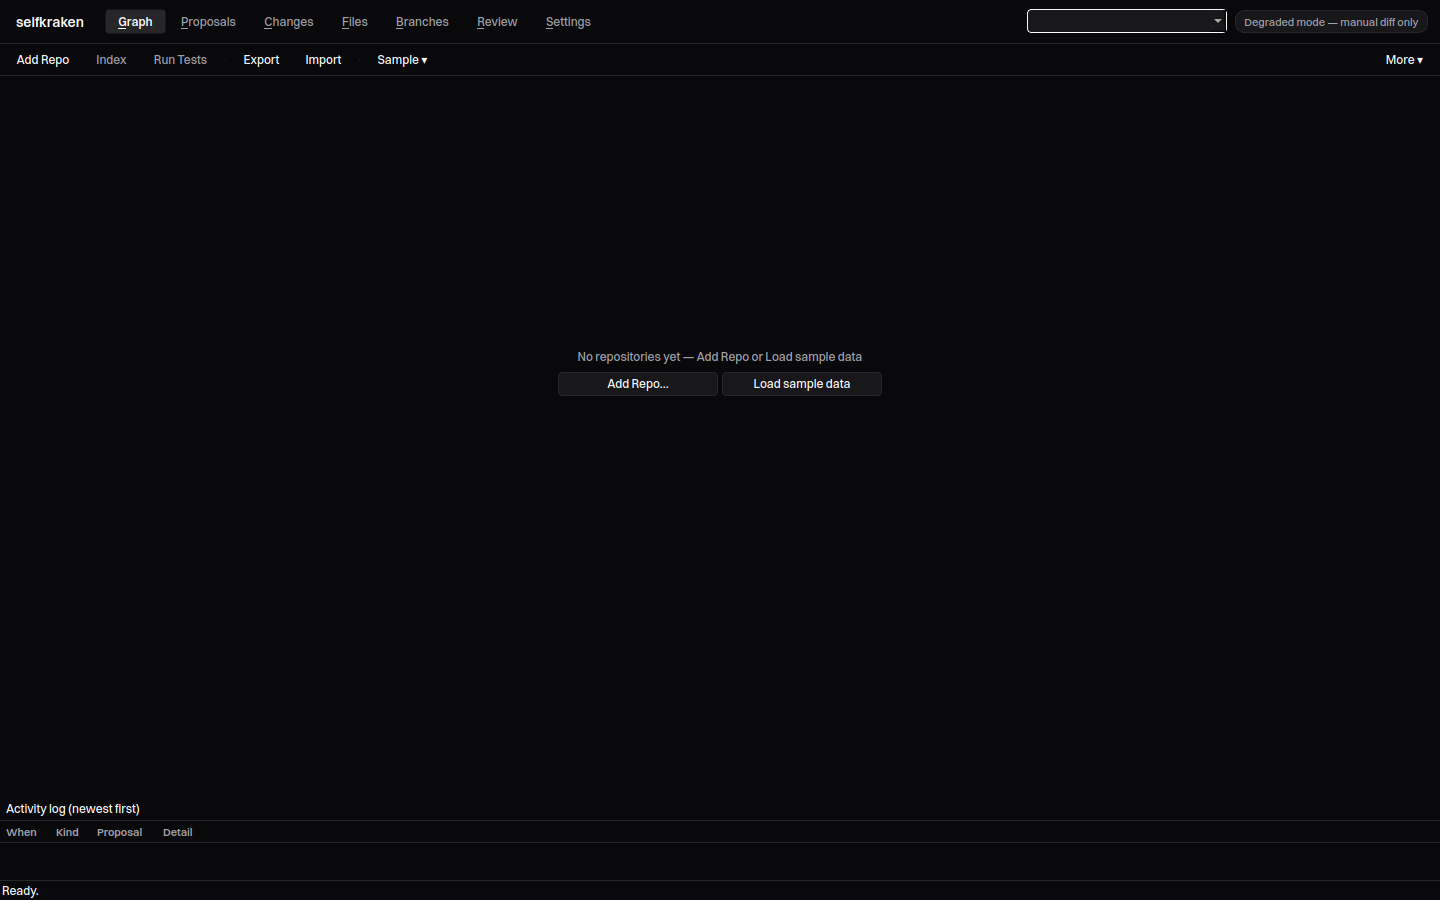
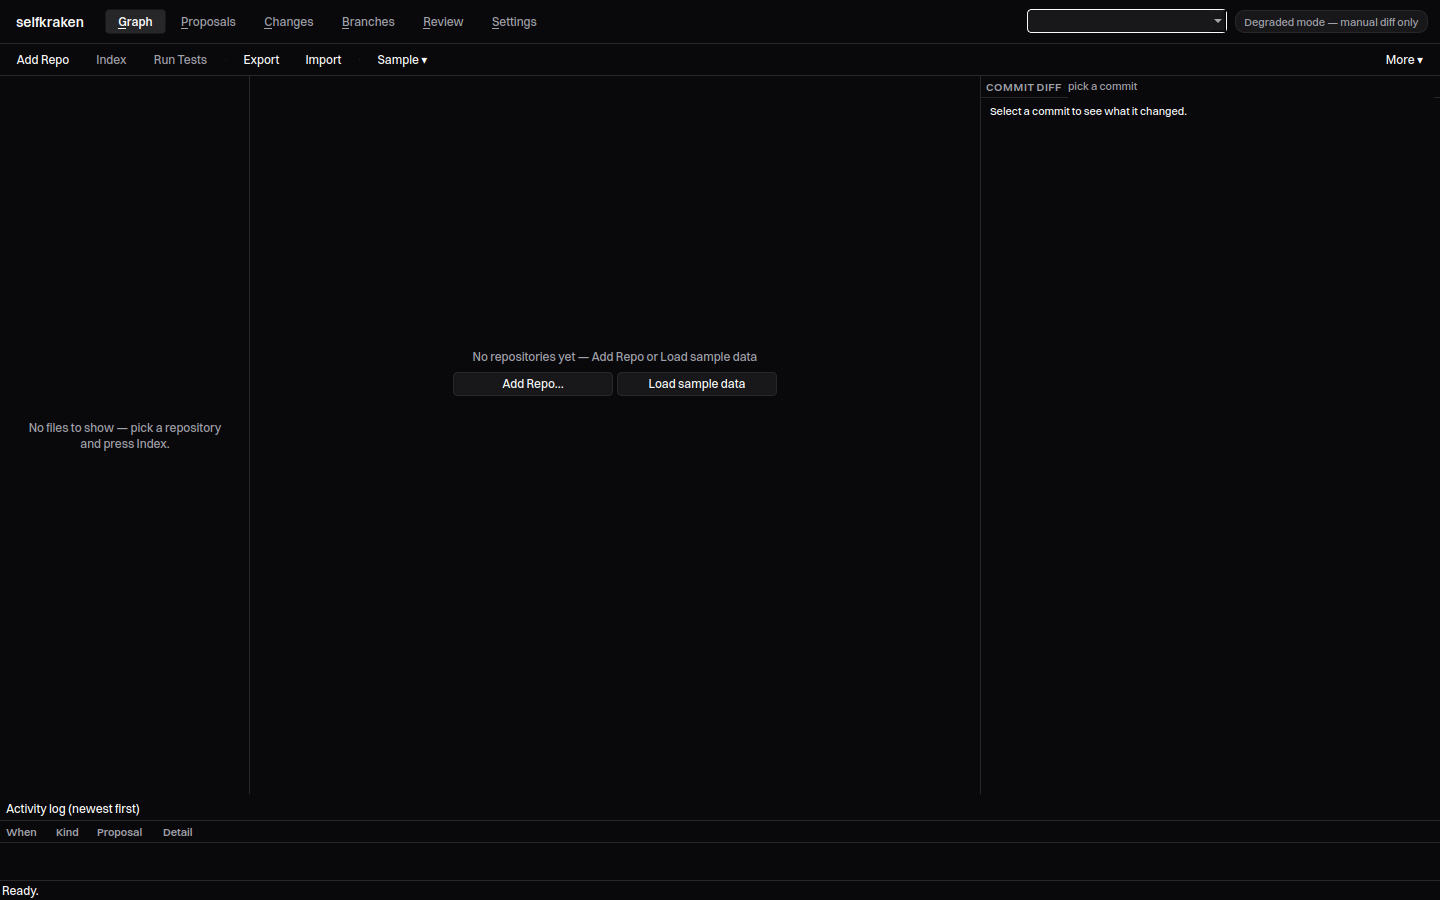
gui: files left, commits in the middle, the selected commit's diff on the right
The Graph page is three splitter panes now. The file tree moved out of a tab to
sit beside the graph, and a commit diff pane reads 'git show --patch' for the
clicked commit, syntax-highlighted — so a commit can be read without leaving the
graph. Branches keeps its own page; Files is no longer a page.

README and screenshots follow the layout.

diff --git a/selfkraken/gui/app.py b/selfkraken/gui/app.py
@@ -63,6 +63,7 @@ from PySide6.QtWidgets import (
     QPushButton,
     QScrollArea,
     QSizePolicy,
+    QSplitter,
     QStackedWidget,
     QStyle,
     QStyledItemDelegate,
@@ -77,7 +78,7 @@ from PySide6.QtWidgets import (
 )
 
 from selfkraken import __version__ as APP_VERSION
-from selfkraken import diffs, indexer, portability, sample, workflow
+from selfkraken import diffs, gitops, indexer, portability, sample, workflow
 from selfkraken.config import Settings, load_settings
 from selfkraken.db import Proposal, Repo, Store, TestRun
 from selfkraken.errors import SKError
@@ -86,7 +87,7 @@ from selfkraken.workflow import ApplyOutcome, DEGRADED_MODE_HINT
 
 from selfkraken.gui import monaco_payload as monaco_api
 from selfkraken.gui import fonts as ui_fonts
-from selfkraken.gui.diff_view import monospace_font
+from selfkraken.gui.diff_view import DiffHighlighter, monospace_font
 from selfkraken.gui.graph_widget import GraphView, read_commit_detail
 from selfkraken.gui.monaco_view import MonacoView
 from selfkraken.gui.models import (
@@ -110,6 +111,7 @@ from selfkraken.gui.theme import (
     DOCK_TITLE_INSET,
     DOCK_TITLE_HEIGHT,
     FONT_PT,
+    HEADER_HEIGHT,
     INPUT_HEIGHT,
     LAYOUT_SPACING,
     LEFT_DOCK_RATIO,
@@ -131,6 +133,8 @@ from selfkraken.gui.theme import (
     SPACE_4,
     SPACE_6,
     SPACE_8,
+    COMMIT_DIFF_WIDTH,
+    FILES_PANE_WIDTH,
     REVIEW_PAGE_WIDTH,
     SETTINGS_NAV_WIDTH,
     STATUS_BAR_HEIGHT,
@@ -200,11 +204,10 @@ MIN_WINDOW_HEIGHT = 700
 TAB_GRAPH = 0
 TAB_PROPOSALS = 1
 TAB_CHANGES = 2
-TAB_FILES = 3
-TAB_BRANCHES = 4
-TAB_REVIEW = 5
-TAB_SETTINGS = 6
-PERMANENT_TABS = 7
+TAB_BRANCHES = 3
+TAB_REVIEW = 4
+TAB_SETTINGS = 5
+PERMANENT_TABS = 6
 
 #: a diff is shown side by side only when the pane is at least this wide; below
 #: it the two columns would each be narrower than a line of code
@@ -1234,7 +1237,13 @@ class MainWindow(QMainWindow):
         self.proposals_stack.addWidget(self.proposals_empty)     # index 1
         self.proposals_stack.addWidget(self.proposals_table)     # index 2
 
-        self.tabs.addTab(self.graph_stack, "&Graph")
+        # -- the workspace: files on the left, commits in the middle, and the
+        #    selected commit's diff on the right -----------------------------
+        self.workspace = QSplitter(Qt.Orientation.Horizontal)
+        self.workspace.setObjectName("workspace")
+        self.workspace.setChildrenCollapsible(False)
+        self.workspace.addWidget(self.graph_stack)
+        self.tabs.addTab(self.workspace, "&Graph")
         self.tabs.addTab(self.proposals_stack, "&Proposals")
 
         # -- Changes tab: the proposal diff, in Monaco -----------------------
@@ -1607,10 +1616,75 @@ class MainWindow(QMainWindow):
         self.branches_stack.addWidget(self.branches_empty)
         self.branches_stack.addWidget(self.branches_view)
 
-        self.tabs.addTab(self.files_stack, "&Files")
+        # files live beside the commits, not behind a tab: the tree is what
+        # the middle of the window is read against
+        self.commit_diff_page = self._build_commit_diff_pane()
+        self.workspace.insertWidget(0, self.files_stack)
+        self.workspace.addWidget(self.commit_diff_page)
+        self.workspace.setStretchFactor(0, 0)
+        self.workspace.setStretchFactor(1, 1)
+        self.workspace.setStretchFactor(2, 0)
+        self.workspace.setSizes([FILES_PANE_WIDTH, 760, COMMIT_DIFF_WIDTH])
+
         self.tabs.addTab(self.branches_stack, "&Branches")
 
     # ------------------------------------------------------------- right dock
+    def _build_commit_diff_pane(self) -> QWidget:
+        """The selected commit's patch, beside the graph that selected it."""
+        pane = QWidget()
+        pane.setObjectName("commitDiffPane")
+        box = QVBoxLayout(pane)
+        box.setContentsMargins(0, 0, 0, 0)
+        box.setSpacing(0)
+
+        header = QFrame()
+        header.setObjectName("commitDiffHeader")
+        header.setFixedHeight(control_height(HEADER_HEIGHT, META_PT))
+        row = QHBoxLayout(header)
+        row.setContentsMargins(MARGIN_PANEL, 0, MARGIN_PANEL, 0)
+        row.setSpacing(SPACE_6)
+        caption = QLabel("COMMIT DIFF")
+        caption.setObjectName("paneTitle")
+        self.commit_diff_title = ElidedLabel("pick a commit", self.palette, muted=True)
+        self.commit_diff_title.setAccessibleName("Commit diff title")
+        row.addWidget(caption)
+        row.addWidget(self.commit_diff_title, 1)
+        box.addWidget(header)
+
+        self.commit_diff_view = QPlainTextEdit()
+        self.commit_diff_view.setObjectName("commitDiffView")
+        self.commit_diff_view.setReadOnly(True)
+        self.commit_diff_view.setLineWrapMode(QPlainTextEdit.LineWrapMode.NoWrap)
+        self.commit_diff_view.setFont(monospace_font(MONO_PT))
+        self.commit_diff_view.setAccessibleName("Commit diff")
+        self.commit_diff_view.setPlainText(
+            "Select a commit to see what it changed."
+        )
+        self.commit_diff_highlighter = DiffHighlighter(
+            self.commit_diff_view.document(), self.palette
+        )
+        box.addWidget(self.commit_diff_view, 1)
+        return pane
+
+    def _load_commit_patch(self, repo_path: Path, sha: str, subject: str) -> None:
+        """Ask git for the commit's patch and put it in the right-hand pane."""
+        self.commit_diff_title.setText(f"{sha[:9]} · {subject}")
+        self.commit_diff_view.setPlainText("Reading the commit…")
+
+        def job(_store: Store, _settings: Settings) -> str:
+            proc = gitops.run_git(
+                repo_path, "show", "--patch", "--no-color", "--format=", sha
+            )
+            return proc.stdout
+
+        def done(patch: str) -> None:
+            self.commit_diff_view.setPlainText(patch or "This commit changed nothing.")
+
+        def failed(message: str) -> None:
+            self.commit_diff_view.setPlainText(f"Diff unavailable: {message}")
+
+        self.runner.submit("commit-diff", job, on_ok=done, on_error=failed)
+
     def _build_review_page(self) -> None:
         """The review column, as a page of the workspace."""
 
@@ -3140,6 +3214,8 @@ class MainWindow(QMainWindow):
         )
         self.commit_message_edit.setPlainText(commit.subject or "(no subject)")
         repo_path = Path(repo.path)
+        if hasattr(self, "commit_diff_view"):
+            self._load_commit_patch(repo_path, commit.sha, commit.subject or "")
 
         def job(_store: Store, _settings: Settings):
             return read_commit_detail(repo_path, commit.sha)

diff --git a/selfkraken/gui/theme.py b/selfkraken/gui/theme.py
@@ -51,6 +51,9 @@ ACTION_BAR_HEIGHT: Final[int] = 34
 REVIEW_PAGE_WIDTH: Final[int] = 860
 #: the settings column: grouped sections, each row title + note + value
 SETTINGS_NAV_WIDTH: Final[int] = 288
+#: the workspace panes: the file tree on the left, the commit diff on the right
+FILES_PANE_WIDTH: Final[int] = 250
+COMMIT_DIFF_WIDTH: Final[int] = 460
 RADIUS_PILL: Final[int] = 9  #: half the pill height, so it reads as a capsule
 
 ROW_HEIGHT: Final[int] = 22  #: tables, trees, dock titles
@@ -492,6 +495,18 @@ def stylesheet(p: Palette, dock_title_inset: int = DOCK_TITLE_INSET) -> str:
     QLabel#cardNote {{ color: {p.muted}; font-size: {META_PT:g}pt; background: transparent; }}
     QLabel#cardKey {{ color: {p.muted}; background: transparent; }}
     QLabel#cardValue {{ color: {p.text}; background: transparent; }}
+
+    QSplitter#workspace::handle {{ background: {p.border}; width: {BORDER_WIDTH}px; }}
+    QWidget#commitDiffPane {{ background: {p.window}; }}
+    QFrame#commitDiffHeader {{ background: {p.window}; border-bottom: {BORDER_WIDTH}px solid {p.border}; }}
+    QLabel#paneTitle {{
+        color: {p.muted}; font-size: {META_PT:g}pt; font-weight: 600;
+        letter-spacing: 0.08em; background: transparent;
+    }}
+    QPlainTextEdit#commitDiffView {{
+        background: {p.base}; color: {p.text}; border: none;
+        selection-background-color: {p.selection_bg}; selection-color: {p.selection_text};
+    }}
 
     /* ---------------------------------------------------------------- shell */
     QFrame#topBar {{

diff --git a/README.md b/README.md
@@ -276,22 +276,26 @@ scripts/install.sh                 # installs '.[dev,gui]' (includes PySide6)
 .venv/bin/skraken gui --theme light
 ```
 
-**The shell is one workspace, not a wall of panels.** A single 44px top bar
-carries the wordmark, the page strip (**Graph · Proposals · Changes · Files ·
-Branches · Review · Settings**), the repository selector and the model state;
-one row of actions sits under it (**Add Repo**, **Index**, **Run Tests**,
-**Export/Import**, **Sample**, **More**). Below that, the page is the whole
-window — there are no side docks to resize or lose, and Settings lives at the
-end of the strip the way it does in a browser.
+**The shell is one workspace.** A single 44px top bar carries the wordmark,
+the page strip (**Graph · Proposals · Changes · Branches · Review · Settings**),
+the repository selector and the model state; one row of actions sits under it
+(**Add Repo**, **Index**, **Run Tests**, **Export/Import**, **Sample**,
+**More**).
 
-Inside the pages: a GitKraken-style **commit graph** (painted lanes, merge
-rings, ref badges like `HEAD`, `main ↑2`, `tag: v0.1.0`,
-`feature/login ⇄ origin`), a **proposals** table with coloured status badges,
-the **New proposal** form (request with live character counter and inline
-validation, optional context files, optional *paste a unified diff* box for
-degraded mode), and the **proposal detail** — rationale, Apply with *Run tests
-/ Commit on success / Keep on failure*, Reject, Revert, and a collapsible
-test-output tail. A bottom **activity log** shows every step, newest first.
+The **Graph** page is three panes side by side, splitter-resizable:
+
+| Pane | What it holds |
+| --- | --- |
+| **Left** | the **file tree** — files touched by the selected commit are marked `✎ changed`; double-click opens one read-only in its own tab |
+| **Middle** | the **commit graph**: painted lanes, merge rings, ref badges like `HEAD`, `main ↑2`, `tag: v0.1.0`, `feature/login ⇄ origin` |
+| **Right** | the **commit diff** — click any commit and its patch appears here, syntax-highlighted, without leaving the graph |
+
+The other pages: a **proposals** table with coloured status badges, the **New
+proposal** form (request with live character counter and inline validation,
+optional context files, optional *paste a unified diff* box for degraded mode),
+the **proposal detail** — rationale, Apply with *Run tests / Commit on success /
+Keep on failure*, Reject, Revert, and a collapsible test-output tail — and
+**Branches**. A bottom **activity log** shows every step, newest first.
 Everything slow runs in worker threads; the window never freezes, and errors
 come back as plain `Error:` text — never tracebacks.
 
